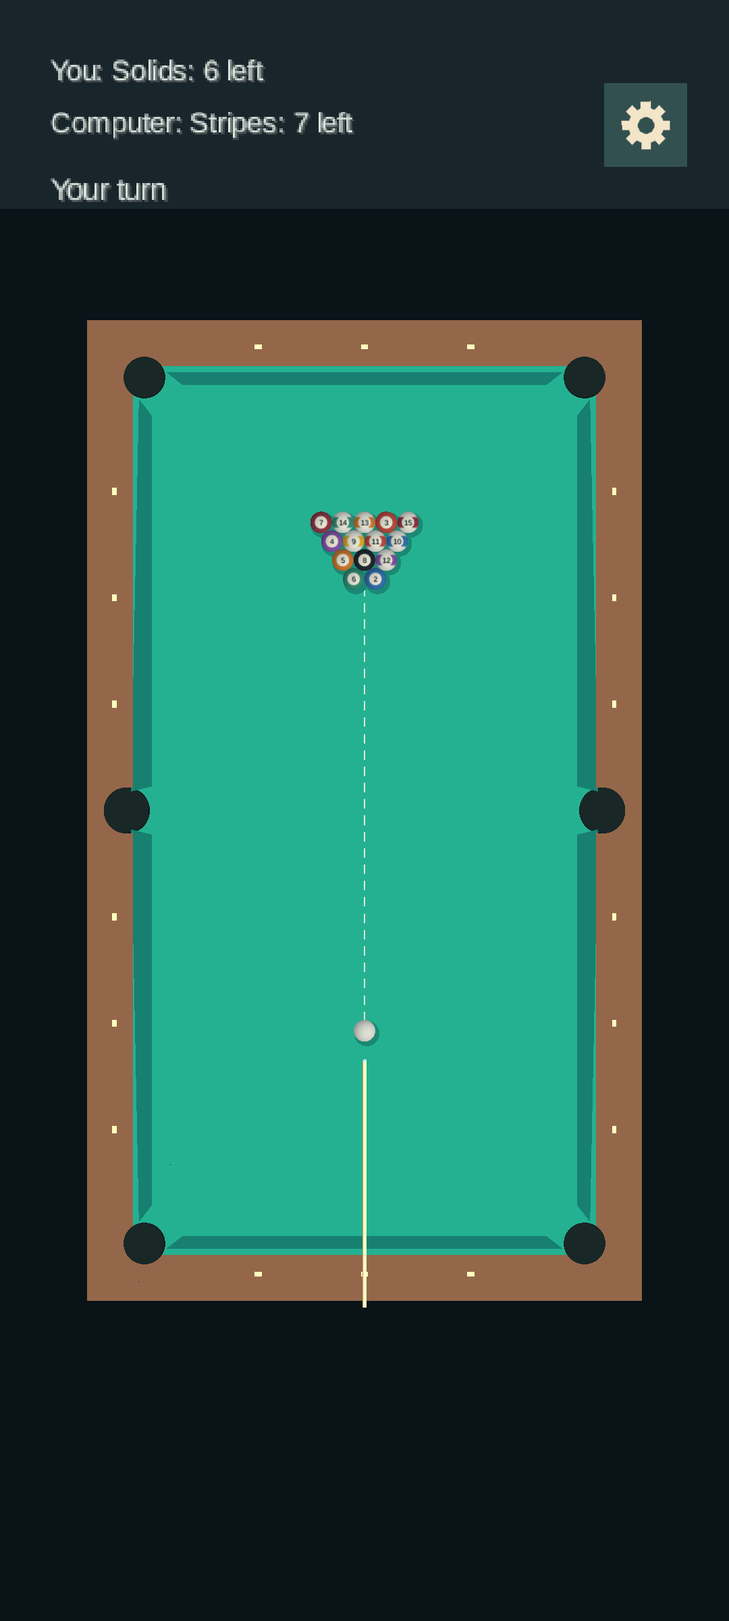
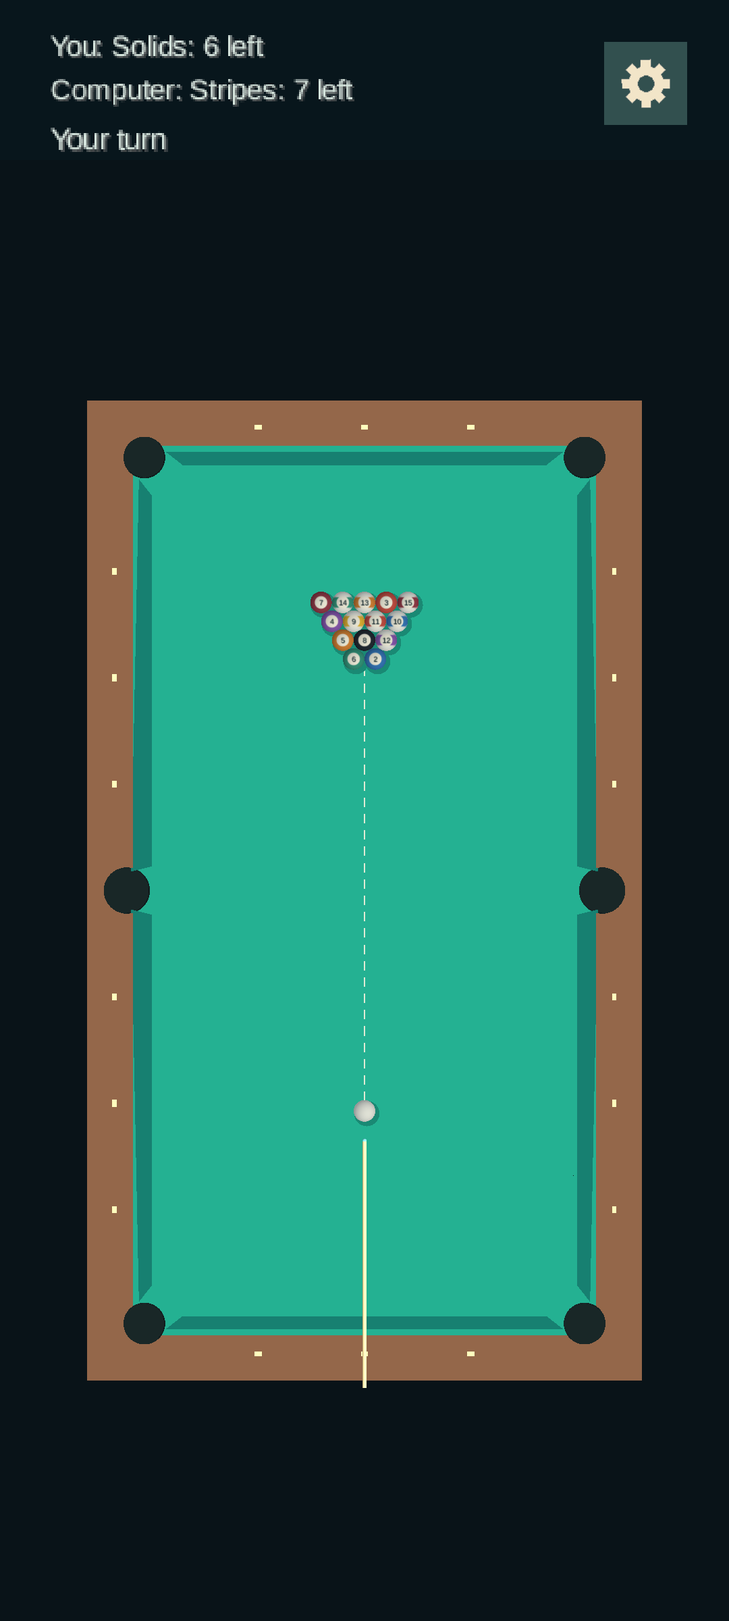
Reserve a compact HUD strip outside the aiming viewport

diff --git a/core/src/main/kotlin/io/github/ffeltrinelli/pool/ui/GameHud.kt b/core/src/main/kotlin/io/github/ffeltrinelli/pool/ui/GameHud.kt
@@ -47,27 +47,7 @@ class GameHud : Disposable {
         val h = layout.uiHeight
         sprites.projectionMatrix = camera.combined
         sprites.begin()
-        val headerHeight = if (presentation.notice != null && !session.finished) 190f else 120f
-        rectangle(Rectangle(0f, h - headerHeight, 420f, headerHeight), "08161ced")
-        fun groupLabel(player: Player): String = session.group(player)?.let {
-            "${it.label}: ${session.remaining(player)} left"
-        } ?: "Unassigned"
-        text("You: ${groupLabel(Player.HUMAN)}", 29f, h - 34f, 1.10f, "d5e5dd")
-        text("Computer: ${groupLabel(Player.COMPUTER)}", 29f, h - 64f, 1.10f, "d5e5dd")
-        val status = when {
-            presentation.computerThinking -> "Computer thinking..."
-            session.placement != null -> if (session.player == Player.HUMAN) "Place the cue ball" else "Computer placing cue ball"
-            session.group(session.player) == null -> if (session.player == Player.HUMAN) "Your turn" else "Computer's turn"
-            session.remaining(session.player) == 0 -> if (session.player == Player.HUMAN) "You're on the 8-ball" else "Computer is on the 8-ball"
-            session.player == Player.HUMAN -> "Your turn"
-            else -> "Computer's turn"
-        }
-        text(status, 29f, h - 103f, 1.15f, "d5e5dd")
-        if (presentation.notice != null && !session.finished) {
-            font.data.setScale(1.05f)
-            font.color = Color.valueOf("f2d295")
-            font.draw(sprites, presentation.notice, 30f, h - 140f, 360f, com.badlogic.gdx.utils.Align.center, true)
-        }
+        drawHeader(session, presentation)
         if (session.placement != null && session.player == Player.HUMAN) {
             val instruction = if (session.placement == io.github.ffeltrinelli.pool.rules.PlacementRegion.ANYWHERE)
                 "Anywhere on the table" else "Behind the head string"
@@ -80,6 +60,31 @@ class GameHud : Disposable {
         drawGear()
         if (presentation.settingsOpen) drawSettings(mode, aidedAim, presentation.difficulty)
         sprites.end()
+    }
+
+    private fun drawHeader(session: GameSession, presentation: HudPresentation) {
+        val h = layout.uiHeight
+        rectangle(Rectangle(0f, h - layout.headerHeight, 420f, layout.headerHeight), "08161c")
+        fun groupLabel(player: Player): String = session.group(player)?.let {
+            "${it.label}: ${session.remaining(player)} left"
+        } ?: "Unassigned"
+        if (presentation.notice != null && !session.finished) {
+            font.data.setScale(1.05f)
+            font.color = Color.valueOf("f2d295")
+            font.draw(sprites, presentation.notice, 29f, h - 18f, 300f, com.badlogic.gdx.utils.Align.left, true)
+        } else {
+            text("You: ${groupLabel(Player.HUMAN)}", 29f, h - 20f, 1.10f, "d5e5dd")
+            text("Computer: ${groupLabel(Player.COMPUTER)}", 29f, h - 45f, 1.10f, "d5e5dd")
+        }
+        val status = when {
+            presentation.computerThinking -> "Computer thinking..."
+            session.placement != null -> if (session.player == Player.HUMAN) "Place the cue ball" else "Computer placing cue ball"
+            session.group(session.player) == null -> if (session.player == Player.HUMAN) "Your turn" else "Computer's turn"
+            session.remaining(session.player) == 0 -> if (session.player == Player.HUMAN) "You're on the 8-ball" else "Computer is on the 8-ball"
+            session.player == Player.HUMAN -> "Your turn"
+            else -> "Computer's turn"
+        }
+        text(status, 29f, h - 74f, 1.15f, "d5e5dd")
     }
 
     private fun drawGear() {

diff --git a/core/src/test/kotlin/io/github/ffeltrinelli/pool/GameInputTest.kt b/core/src/test/kotlin/io/github/ffeltrinelli/pool/GameInputTest.kt
@@ -61,7 +61,7 @@ class GameInputTest {
         session.beginShot()
         session.accept(io.github.ffeltrinelli.pool.model.PhysicsEvent.Settled)
         assertFalse(input.touchDown(210, 700, 0, Input.Buttons.LEFT))
-        assertTrue(input.touchDown(372, 72, 0, Input.Buttons.LEFT))
+        assertTrue(input.touchDown(372, 48, 0, Input.Buttons.LEFT))
         assertTrue(controls.settingsOpen)
         assertEquals(CuePhase.IDLE, gesture.phase)
         assertTrue(shots.isEmpty())
@@ -97,14 +97,20 @@ class GameInputTest {
             input.touchDown(210, 853, 0, Input.Buttons.LEFT)
             assertNotNull(session.placement)
             input.touchDown(210, 630, 0, Input.Buttons.LEFT)
-            input.touchDragged(240, 650, 0)
-            input.touchUp(240, 650, 0, Input.Buttons.LEFT)
+            input.touchDragged(240, 680, 0)
+            input.touchUp(240, 680, 0, Input.Buttons.LEFT)
             assertNotNull(session.placement)
             input.touchDown(210, 853, 0, Input.Buttons.LEFT)
             assertNull(session.placement)
             assertTrue(session.humanTurn)
             assertTrue(shots.isEmpty())
         }
+
+    @Test fun `header touches never start a gameplay gesture`() = withInput { input, _, gesture, _, shots ->
+        assertTrue(input.touchDown(100, 40, 0, Input.Buttons.LEFT))
+        assertEquals(CuePhase.IDLE, gesture.phase)
+        assertTrue(shots.isEmpty())
+    }
 
     private fun withInput(placing: Boolean = false, check: (GameInput, GameControls, CueGesture, GameSession, List<ShotCommand>) -> Unit) {
         com.badlogic.gdx.utils.GdxNativesLoader.load()
@@ -121,7 +127,7 @@ class GameInputTest {
             val session = GameSession().apply { if (!placing) confirmPlacement() }
             val gesture = CueGesture()
             val shots = mutableListOf<ShotCommand>()
-            val views = GameViews().apply { resize(420, 933) }
+            val views = GameViews().apply { resize(420, HudLayout(420, 933).gameHeight) }
             val placement = io.github.ffeltrinelli.pool.input.CueBallPlacement()
             views.placing = placing
             val input = GameInput(controls, session, { HudLayout(420, 933) }, views, physics, gesture, { session.humanTurn }, shots::add, placement) {

diff --git a/core/src/main/kotlin/io/github/ffeltrinelli/pool/input/GameInput.kt b/core/src/main/kotlin/io/github/ffeltrinelli/pool/input/GameInput.kt
@@ -46,17 +46,18 @@ internal class GameInput(
         }
         val action = layout().hit(x, y, controls.settingsOpen, session.finished)
         if (action != null) { controls.handle(action); return true }
+        if (!layout().containsGame(x, y)) return true
         if (controls.acceptsGameplay && session.placement != null && session.player == Player.HUMAN) {
             if (layout().confirmsPlacement(x, y)) confirmPlacement()
             else {
-                placement.move(views.active.beginInput(x, y, placement.point, gesture.direction))
+                placement.move(views.active.beginInput(x, layout().gameScreenY(y), placement.point, gesture.direction))
                 gameplayPointer = pointer
             }
             return true
         }
         if (!controls.acceptsGameplay || !canShoot() || gameplayPointer != null) return false
         val cue = physics.balls.firstOrNull { it.id == 0 && !it.pocketed } ?: return false
-        val point = views.active.beginInput(x, y, cue.point, gesture.direction)
+        val point = views.active.beginInput(x, layout().gameScreenY(y), cue.point, gesture.direction)
         gesture.begin(sample(pointer, point), cue.point)
         if (gesture.phase == CuePhase.AIMING) gameplayPointer = pointer
         return true
@@ -69,11 +70,11 @@ internal class GameInput(
         }
         if (pointer != gameplayPointer || !controls.acceptsGameplay) return false
         if (session.placement != null) {
-            placement.move(views.active.moveInput(x, y, CuePhase.AIMING, gesture.direction))
+            placement.move(views.active.moveInput(x, layout().gameScreenY(y), CuePhase.AIMING, gesture.direction))
             return true
         }
         if (!canShoot()) return false
-        val point = views.active.moveInput(x, y, gesture.phase, gesture.direction)
+        val point = views.active.moveInput(x, layout().gameScreenY(y), gesture.phase, gesture.direction)
         gesture.move(sample(pointer, point))?.let(deliverShot)
         return true
     }

diff --git a/core/src/test/kotlin/io/github/ffeltrinelli/pool/GameViewportTest.kt b/core/src/test/kotlin/io/github/ffeltrinelli/pool/GameViewportTest.kt
@@ -1,0 +1,37 @@
+package io.github.ffeltrinelli.pool
+
+import io.github.ffeltrinelli.pool.ui.HudLayout
+import io.github.ffeltrinelli.pool.model.Point
+import io.github.ffeltrinelli.pool.view.TopView
+import com.badlogic.gdx.math.Vector3
+import org.junit.Assert.*
+import org.junit.Test
+
+class GameViewportTest {
+    @Test fun `reserved HUD and game viewport partition the window at normal and high DPI`() {
+        for ((width, height) in listOf(420 to 933, 1080 to 2400, 1080 to 2296)) {
+            val layout = HudLayout(width, height)
+            assertEquals(height, layout.gameTop + layout.gameHeight)
+            assertFalse(layout.containsGame(width / 2, layout.gameTop - 1))
+            assertTrue(layout.containsGame(width / 2, layout.gameTop))
+            assertEquals(0, layout.gameScreenY(layout.gameTop))
+            assertEquals(layout.gameHeight - 1, layout.gameScreenY(height - 1))
+            assertEquals(layout.gameHeight * 2, layout.renderHeight(height * 2))
+        }
+    }
+    @Test fun `top view touches match projected table points below the reserved header`() {
+        com.badlogic.gdx.utils.GdxNativesLoader.load()
+        val layout = HudLayout(1080, 2296)
+        val view = TopView().apply { resize(1080, layout.gameHeight) }
+        for (point in listOf(Point(0f, 0.58f),
+            Point(-0.4f, -0.8f), Point(0.4f, 0.8f))) {
+            val projected = view.camera.project(Vector3(point.x, 0f, point.z),
+                0f, 0f, 1080f, layout.gameHeight.toFloat())
+            val rawY = (2296 - projected.y).toInt()
+            val mapped = view.beginInput(projected.x.toInt(), layout.gameScreenY(rawY), point, point)
+            assertEquals(point.x, mapped.x, 0.003f)
+            assertEquals(point.z, mapped.z, 0.003f)
+        }
+    }
+
+}

diff --git a/core/src/main/kotlin/io/github/ffeltrinelli/pool/render/PoolRenderer.kt b/core/src/main/kotlin/io/github/ffeltrinelli/pool/render/PoolRenderer.kt
@@ -86,8 +86,8 @@ class PoolRenderer : Disposable {
         scene.add(ModelInstance(own(builder.createBox(w, h, d, material, attributes))).apply { transform.setToTranslation(x, y, z) })
     }
     fun resize(width: Int, height: Int) {
-        views.resize(width, height)
         hud.resize(width, height)
+        views.resize(width, hud.layout.gameHeight)
     }
 
     fun render(
@@ -100,7 +100,7 @@ class PoolRenderer : Disposable {
         table: TablePresentation = TablePresentation(),
         hudState: HudPresentation = HudPresentation()
     ) {
-        Gdx.gl.glViewport(0, 0, pixelWidth, pixelHeight)
+        Gdx.gl.glViewport(0, 0, pixelWidth, hud.layout.renderHeight(pixelHeight))
         Gdx.gl.glClearColor(0.035f, 0.075f, 0.095f, 1f)
         Gdx.gl.glClear(GL20.GL_COLOR_BUFFER_BIT or GL20.GL_DEPTH_BUFFER_BIT)
         val cuePoint = physics.balls.firstOrNull { it.id == 0 && !it.pocketed }?.point
@@ -114,6 +114,7 @@ class PoolRenderer : Disposable {
         }
         val cuePose = if (session.humanTurn && table.humanCanAim) CuePose(gesture.direction, gesture.tipGap) else table.computerPose
         if (session.canShoot && cueBall != null && cuePose != null) renderCue(cueBall.point, cuePose)
+        Gdx.gl.glViewport(0, 0, pixelWidth, pixelHeight)
         hud.render(session, views.mode, table.aidedAim, hudState)
     }
 

diff --git a/lwjgl3/src/test/kotlin/io/github/ffeltrinelli/pool/lwjgl3/VisualSmoke.kt b/lwjgl3/src/test/kotlin/io/github/ffeltrinelli/pool/lwjgl3/VisualSmoke.kt
@@ -303,7 +303,7 @@ object VisualSmoke {
             }
             val probe = cue - gesture.direction * distance
             val screen = renderer.views.active.camera.project(
-                Vector3(probe.x, TableGeometry.BALL_RADIUS, probe.z), 0f, 0f, 1080f, 2400f)
+                Vector3(probe.x, TableGeometry.BALL_RADIUS, probe.z), 0f, 0f, 1080f, renderer.hud.layout.gameHeight.toFloat())
             check(screen.x in 6f..1073f && screen.y in 6f..2393f)
             val withCue = Pixmap.createFromFrameBuffer(screen.x.toInt() - 5, screen.y.toInt() - 5, 11, 11)
             val humanCanAim = tablePresentation.humanCanAim
@@ -418,7 +418,7 @@ object VisualSmoke {
 
         private fun capturePocketDetail(name: String) {
             val pocket = if ("corner" in name) PocketGeometry.pockets[3] else PocketGeometry.pockets[5]
-            val projected = renderer.views.active.camera.project(Vector3(pocket.center.x, 0f, pocket.center.z), 0f, 0f, 1080f, 2400f)
+            val projected = renderer.views.active.camera.project(Vector3(pocket.center.x, 0f, pocket.center.z), 0f, 0f, 1080f, renderer.hud.layout.gameHeight.toFloat())
             val x = (projected.x.toInt() - 210).coerceIn(0, 660)
             val y = (projected.y.toInt() - 210).coerceIn(0, 1980)
             val pixels = Pixmap.createFromFrameBuffer(x, y, 420, 420)

diff --git a/core/src/main/kotlin/io/github/ffeltrinelli/pool/ui/HudLayout.kt b/core/src/main/kotlin/io/github/ffeltrinelli/pool/ui/HudLayout.kt
@@ -8,7 +8,13 @@ class HudLayout(width: Int, height: Int) {
     private val width = width.coerceAtLeast(1)
     private val height = height.coerceAtLeast(1)
     val uiHeight = 420f * this.height / this.width
-    val gear = Rectangle(348f, uiHeight - 96f, 48f, 48f)
+    val headerHeight = 92f
+    val gameTop = kotlin.math.ceil(headerHeight * this.width / 420f).toInt().coerceAtMost(this.height - 1)
+    val gameHeight = this.height - gameTop
+    fun gameScreenY(screenY: Int) = screenY - gameTop
+    fun containsGame(screenX: Int, screenY: Int) = screenX in 0 until width && screenY in gameTop until height
+    fun renderHeight(backBufferHeight: Int) = (backBufferHeight.toLong() * gameHeight / height).toInt().coerceAtLeast(1)
+    val gear = Rectangle(348f, uiHeight - 72f, 48f, 48f)
     val panel = Rectangle(30f, uiHeight / 2 - 237.5f, 360f, 475f)
     val close = Rectangle(336f, panel.y + panel.height - 54f, 48f, 48f)
     val top = Rectangle(60f, uiHeight / 2 + 97.5f, 146f, 48f)

diff --git a/tools/check_opponent_device.py b/tools/check_opponent_device.py
@@ -42,7 +42,7 @@ def main():
 
     def hud_visible():
         pixels = subprocess.check_output(['ffmpeg', '-v', 'error', '-i', 'pipe:0',
-            '-vf', 'crop=110:110:900:245', '-f', 'rawvideo', '-pix_fmt', 'rgb24', 'pipe:1'],
+            '-vf', 'crop=110:110:900:170', '-f', 'rawvideo', '-pix_fmt', 'rgb24', 'pipe:1'],
             input=adb('exec-out', 'screencap', '-p'), timeout=10)
         # Require Pool's green gear button and cream icon, not arbitrary bright launcher pixels.
         green = sum(1 for i in range(0, len(pixels), 3)
@@ -73,7 +73,7 @@ def main():
     shell('am start -W -n ' + ACTIVITY)
     wait_for(lambda: pool_is_foreground() and hud_visible(), 'first foreground game frame')
     capture('reopened')
-    shell('input tap 956 288')
+    shell('input tap 956 226')
     capture('settings')
     for level, x in [('EASY', 283), ('MEDIUM', 540), ('HARD', 797)]:
         select_difficulty(level, x)
@@ -88,13 +88,13 @@ def main():
     checks['outside_tap_preserves_difficulty'] = preference('opponent-difficulty') == 'HARD'
     shell('input tap 926 718')  # X dismisses the modal.
     capture('x-dismissed')
-    shell('input tap 956 288')
+    shell('input tap 956 226')
     select_difficulty('MEDIUM', 540)
     capture('difficulty-medium-restored')
     shell('input keyevent KEYCODE_BACK')
     capture('back-dismissed')
     pid = shell('pidof ' + PACKAGE).strip()
-    shell('input tap 956 288')  # Suspend with Settings still open through Home/resume.
+    shell('input tap 956 226')  # Suspend with Settings still open through Home/resume.
     capture('before-background')
     shell('input keyevent KEYCODE_HOME')
     shell('am start -W -n ' + ACTIVITY)
@@ -105,7 +105,7 @@ def main():
     checks['background_preserves_open_settings'] = preference('opponent-difficulty') == 'HARD'
     shell('input keyevent KEYCODE_BACK')
     for index in range(3):
-        shell('input tap 956 288')
+        shell('input tap 956 226')
         shell('input tap 342 1672')
         time.sleep(.1)
         capture('restart-' + str(index))
@@ -113,7 +113,7 @@ def main():
     shell('am start -W -n ' + ACTIVITY)
     wait_for(lambda: pool_is_foreground() and hud_visible(), 'new process foreground frame')
     checks['difficulty_persists_after_process_restart'] = preference('opponent-difficulty') == 'HARD'
-    shell('input tap 956 288')
+    shell('input tap 956 226')
     select_difficulty('MEDIUM', 540)
     shell('input tap 738 1672')
     wait_for(lambda: not pool_is_foreground(), 'Exit finishing the activity')

diff --git a/tools/device_check.py b/tools/device_check.py
@@ -60,7 +60,7 @@ def main():
             # OnePlus API 34 safe viewport starts at y=103; coordinates include that cutout inset.
             # Back dismisses any open settings before opening a fresh modal.
             shell('input keyevent KEYCODE_BACK')
-            shell('input tap 956 288')
+            shell('input tap 956 226')
             shell('input tap ' + ('342' if args.view == 'top' else '738') + ' 939')
             shell('input tap 342 1672')
             time.sleep(0.3)

diff --git a/docs/device-validation.md b/docs/device-validation.md
@@ -254,7 +254,7 @@ The debug APK installed and cold-launched on the **OnePlus 8T / Android 14 / API
 
 Replaced ball-count scoring with the simplified WPA rules in the [README](../README.md#rules-of-this-game). Fresh breaks and fouls now require valid cue-ball placement; new requested racks alternate breakers. Added explicit open-table/group messages and eight-ball results.
 
-Local verification: **158 passed tests, one opt-in calibration skipped, zero failures; 135 rendered scenarios passed**. Audio assets and production lifecycle passed through OpenAL's null backend. Android lint and debug APK build passed. Existing lint warnings were not introduced by this change. See the [implementation/documentation review](eight-ball-review.md).
+Local verification: **161 passed tests, one opt-in calibration skipped, zero failures; 135 rendered scenarios passed**. Audio assets and production lifecycle passed through OpenAL's null backend. Android lint and debug APK build passed. Existing lint warnings were not introduced by this change. See the [implementation/documentation review](eight-ball-review.md).
 
 Installed the debug APK on the OnePlus 8T KB2003, Android 14 / API 34, retaining view, aided-aim and difficulty preferences. Observed:
 
@@ -274,3 +274,13 @@ Not claimed as completed: a full human-played rack through its result, deliberat
 The user requested removal of the Pool heading, larger text, and reported a poor Hard-difficulty placement when the computer only needed the eight. Removed the heading, enlarged HUD/settings/placement/result text, and added a dark HUD backing for readability over Player view. The placement shortlist had favored proximity to the break spot and could omit later positions from seed evaluation; it now prioritizes pot-aligned positions and evaluates every shortlisted position before optimization. Five deterministic native layouts, including remaining opponent blockers, now verify a winning Hard placement/shot with the 64-evaluation budget. This regression establishes those cases, not a guarantee of every possible pot. The revised build is installed for further human acceptance.
 
 The user accepted the enlarged font sizes, then reported top-view ball glare and asked to remove the redundant “Open table — groups not assigned” line. Removed that line (the two ownership rows retain “Unassigned”), reduced the header's unused height, and removed the balls' specular material component and softened their diffuse illumination to prevent number-patch clipping. Font sizes are unchanged. The user subsequently confirmed that the ball numbers are readable in Top view; the larger fonts and glare reduction are accepted.
+
+### Reserved HUD viewport
+
+The user observed that the HUD's dark backing obscured far-table balls while aiming in Player view. The scene now renders in a separate viewport below a fixed 92-logical-pixel HUD strip. Notices temporarily replace the ownership rows inside that strip instead of extending over the table. The accepted font sizes, camera tuning and gesture sensitivity remain unchanged. Shared layout supplies viewport bounds, density scaling and the touch Y offset. Header touches cannot begin gameplay.
+
+Local verification: 161 passed tests, one opt-in calibration skipped, 135 rendered scenarios passed, audio smoke/lint/debug APK passed. Added viewport partition/density and projected-touch regression tests. The revised APK is installed on the OnePlus; device captures are under `build/reports/device-eight-ball/viewport-*`. The before screenshot shows the user's actual rack; the rendered after screenshot uses a deterministic rail-adjacent fixture, not the same rack. Subjective acceptance of this layout change is pending.
+
+Following further feedback, moved the ownership rows, turn label and gear upward and reduced the reserved strip from 120 to 92 logical pixels without reducing fonts. This returns approximately 72 physical vertical pixels on the 1080-pixel-wide OnePlus. Updated device-script gear coordinates accordingly.
+
+On the revised OnePlus build, the gear at its new location opened Settings and Android Back dismissed it. Captures confirm the compact header and unobstructed scene; the preceding viewport build also exercised valid placement and a cancelled backswing without changing the selected font sizes.

diff --git a/docs/eight-ball-review.md b/docs/eight-ball-review.md
@@ -9,7 +9,7 @@ The current game implements the simplified WPA variant described in [the README]
 - Human placement has an independent preview and confirmation. Shared geometry validation rejects balls, bounds, jaws, cushions and pocket openings. The computer evaluates bounded placement/shot pairs under its existing budget.
 - The eight is spotted by a focused physics operation that preserves every other body's transform. The obsolete automatic starting-half replacement search was removed.
 - Ball-in-hand positions prioritize pot-aligned locations before break-spot grid fallbacks, and every shortlisted position gets an evaluated seed. A native Hard regression wins from five eight-ball-only-target layouts, including opponent blockers.
-- The HUD omits the Pool title and redundant open-table line, retaining Unassigned in the ownership rows. It uses user-accepted larger text with a dark backing for Player-view readability. Balls use matte materials and softer diffuse illumination below clipping to reduce number-obscuring glare.
+- The HUD omits the Pool title and redundant open-table line, retaining Unassigned in the ownership rows. It uses user-accepted larger text inside a reserved strip above the scene for Player-view readability. A shared layout defines the game viewport and touch offset; messages stay inside the strip. Balls use matte materials and softer diffuse illumination below clipping to reduce number-obscuring glare.
 - The computer worker retains its cancellation/resource boundary. Selected placement is applied once before animation; suspension retains the selected shot without duplicating placement or contact.
 - Physics material/solver tuning, human gestures, camera tuning, execution-error levels and audio assets are unchanged. Rack positions/packing intentionally follow the corrected rack.
 
@@ -34,7 +34,7 @@ Local delivery command:
 ALSOFT_DRIVERS=null ./gradlew :core:test :lwjgl3:visualTest :lwjgl3:audioTest :android:lintDebug :android:assembleDebug --console=plain --no-parallel
 ```
 
-JDK 21. **158 tests passed; one opt-in calibration test skipped; zero failures/errors.** All **135** rendered scenarios passed at 1080 × 2400. Four WAVs and production audio lifecycle passed the OpenAL null-backend smoke suite. Android lint and debug APK build passed; pre-existing lint warnings remain.
+JDK 21. **161 tests passed; one opt-in calibration test skipped; zero failures/errors.** All **135** rendered scenarios passed at 1080 × 2400. Four WAVs and production audio lifecycle passed the OpenAL null-backend smoke suite. Android lint and debug APK build passed; pre-existing lint warnings remain.
 
 Rules coverage includes groups, mixed pots, first contact/cushion order, break counting, scratches, eight-ball eligibility, final scratches, duplicate events, placement and requested-break alternation. Native coverage includes contact facts across frame partitions, silent off-table removal, non-disruptive spotting, legal computer targets and placement search budgets. Input/coordination tests cover invalid confirmation, placement input isolation, selected-placement delivery once, suspension, stale worker results and failure fallback with a cue position.
 

diff --git a/README.md b/README.md
@@ -78,7 +78,7 @@ The head string lies one-quarter of the table length from the head end; the foot
 - The selected view, aided-aim setting and computer difficulty are remembered across rack restarts and app launches; the first launch uses Top view, aided aim On and Medium difficulty. Older play-mode preferences are ignored; all installations play against the computer.
 - Ball collisions click, cushions thud, and cue contact plays a separate strike. Every physical pocket drop plays the pocket sound, including repeated cue-ball scratches after ball-in-hand placement. Stronger impacts are louder. There is no music or in-game volume control.
 
-Top view uses the original fixed portrait overhead camera and shows the whole table with gesture space around the rails. Player view uses a raised first-person perspective and may crop parts of the table. The cue is drawn over the table borders and balls so it stays visible near rails in both views, including computer strokes. It keeps its perspective and lighting, and is still clipped at screen edges. Settings and the HUD remain above it; there are no cue obstruction, spin, or jump-shot controls.
+The HUD occupies a reserved strip above the game viewport, so group/turn text never covers the aiming scene. Notifications temporarily replace the group rows inside that strip. Table input is mapped relative to the viewport below it. Top view uses the original fixed portrait overhead camera and shows the whole table with gesture space around the rails. Player view uses a raised first-person perspective and may crop parts of the table. The cue is drawn over the table borders and balls so it stays visible near rails in both views, including computer strokes. It keeps its perspective and lighting, and is still clipped at screen edges. Settings and the HUD remain above it; there are no cue obstruction, spin, or jump-shot controls.
 
 ## Architecture and tuning
 
